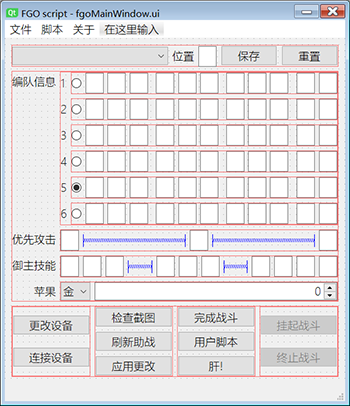
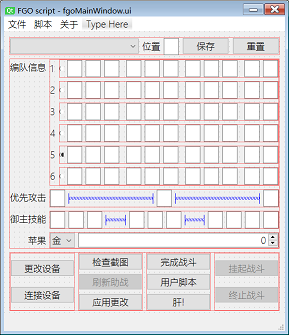
v4.5.5 憨,就硬憨!

diff --git a/fgoFunc.py b/fgoFunc.py
@@ -67,22 +67,23 @@ def battleSleep(x,part=.1):
         time.sleep(part)
     time.sleep(max(0,timer+part-time.time()))
 class Fuse:
-    def __init__(self,fv=400,show=1):
+    def __init__(self,fv=400,show=1,name=''):
         self.__value=0
         self.__max=fv
         self.show=show
+        self.name=name
     @property
     def value(self):return self.__value
     @property
     def max(self):return self.__max
     def inc(self):
         if self.__value>self.__max:
-            logger.warning('Fused')
+            logger.warning(f'Fused {self.name}')
             exit(0)
         self.__value+=1
         return self
     def reset(self):
-        if self.__value>self.show:logger.debug(f'Fuse {self.__value}')
+        if self.__value>self.show:logger.debug(f'Fuse {self.name} {self.__value}')
         self.__value=0
         return self
 fuse=Fuse()
@@ -100,12 +101,7 @@ class DirListener:
         self.lock=False
         self.ren=''
         def f():
-            while True:
-                for i in win32file.ReadDirectoryChangesW(self.hDir,0x1000,False,win32con.FILE_NOTIFY_CHANGE_FILE_NAME|win32con.FILE_NOTIFY_CHANGE_LAST_WRITE,None,None):
-                    logger.debug(f'File modified {dict([[1,"created"],[2,"deleted"],[3,"updated"],[4,"renamedFrom"],[5,"renamedTo"]]).get(i[0],"undefined")} {i}')
-                    try:self.add(i)
-                    except Exception as e:logger.exception(e)
-                    logger.debug(str(self.msg))
+            while True:self.add(win32file.ReadDirectoryChangesW(self.hDir,0x1000,False,win32con.FILE_NOTIFY_CHANGE_FILE_NAME|win32con.FILE_NOTIFY_CHANGE_LAST_WRITE,None,None))
         threading.Thread(target=f,daemon=True,name='DirListener').start()
     @acquireLock
     def add(self,x):
@@ -162,7 +158,7 @@ class DirListener:
                         if self.ren==file:return
                     break
             self.msg+=[[4,self.ren],[5,file]]
-        {1:onCreated,2:onDeleted,3:onUpdated,4:onRenamedFrom,5:onRenamedTo}.get(x[0],lambda x:None)(x[1])
+        for i in x:{1:onCreated,2:onDeleted,3:onUpdated,4:onRenamedFrom,5:onRenamedTo}.get(i[0],lambda x:None)(i[1])
     @acquireLock
     def get(self):
         ans=self.msg
@@ -180,12 +176,11 @@ class Base(Android):
         else:
             self.render=[round(i)for i in self.get_render_resolution(True)]
             self.scale,self.border=(1080/self.render[3],(round(self.render[2]-self.render[3]*16/9)>>1,0))if self.render[2]*9>self.render[3]*16else(1920/self.render[2],(0,round(self.render[3]-self.render[2]*9/16)>>1))
-        ######## bugfix for airtest.core.android.adb.ADB.getPhysicalDisplayInfo ##################################
-        ######## see https://github.com/AirtestProject/Airtest/issues/796 ########################################
+        ######## bugfix for airtest.core.android.adb.ADB.getPhysicalDisplayInfo, see https://github.com/AirtestProject/Airtest/issues/796##################################
             self.maxtouch.install_and_setup()
             self.maxtouch.size_info.update({x:int(y)for x,y in re.search(r'(?P<width>\d+)x(?P<height>\d+)\s*$',self.adb.raw_shell('wm size')).groupdict().items()})
             self._display_info=self.maxtouch.size_info.copy()
-        ######## bugfix end ######################################################################################
+        ######## bugfix end ###############################################################################################################################################
             self.key={c:[round(p[i]/self.scale+self.border[i]+self.render[i])for i in range(2)]for c,p in{
                 '\x70':(790,74),'\x71':(828,74),'\x72':(866,74),'\x73':(903,74),'\x74':(940,74),'\x75':(978,74),'\x76':(1016,74),'\x77':(1053,74),'\x78':(1091,74),'\x79':(1128,74),#VK_F1..10
                 '1':(277,640),'2':(648,640),'3':(974,640),'4':(1262,640),'5':(1651,640),'6':(646,304),'7':(976,304),'8':(1267,304),
@@ -227,6 +222,7 @@ class Base(Android):
     def snapshot(self):return cv2.resize(super().snapshot()[self.render[1]+self.border[1]:self.render[1]+self.render[3]-self.border[1],self.render[0]+self.border[0]:self.render[0]+self.render[2]-self.border[0]],(1920,1080),interpolation=cv2.INTER_CUBIC)
 base=Base()
 def doit(pos,wait):[(base.press(i),battleSleep(j*.001))for i,j in zip(pos,wait)]
+check=None
 class Check:
     def __init__(self,forwordLagency=.01,backwordLagency=0):
         battleSleep(forwordLagency)
@@ -237,8 +233,10 @@ class Check:
         battleSleep(backwordLagency)
     def compare(self,img,rect=(0,0,1920,1080),delta=.05):return delta>cv2.minMaxLoc(cv2.matchTemplate(self.im[rect[1]:rect[3],rect[0]:rect[2]],img,cv2.TM_SQDIFF_NORMED))[0]and fuse.reset()
     def select(self,img,rect=(0,0,1920,1080)):return(lambda x:x.index(min(x)))([cv2.minMaxLoc(cv2.matchTemplate(self.im[rect[1]:rect[3],rect[0]:rect[2]],i,cv2.TM_SQDIFF_NORMED))[0]for i in img])
-    def tapOnCmp(self,img,rect=(0,0,1920,1080),delta=.05):return(lambda loc:loc[0]<delta and(base.touch((rect[0]+loc[2][0]+(img.shape[1]>>1),rect[1]+loc[2][1]+(img.shape[0]>>1))),fuse.reset())[1])(cv2.minMaxLoc(cv2.matchTemplate(self.im[rect[1]:rect[3],rect[0]:rect[2]],img,cv2.TM_SQDIFF_NORMED)))
-    def save(self,name=''):cv2.imwrite(time.strftime('%Y-%m-%d_%H.%M.%S',time.localtime())+'.jpg'if name==''else name,self.im);return self
+    def tap(self,img,rect=(0,0,1920,1080),delta=.05):return(lambda loc:loc[0]<delta and(base.touch((rect[0]+loc[2][0]+(img.shape[1]>>1),rect[1]+loc[2][1]+(img.shape[0]>>1))),fuse.reset())[1])(cv2.minMaxLoc(cv2.matchTemplate(self.im[rect[1]:rect[3],rect[0]:rect[2]],img,cv2.TM_SQDIFF_NORMED)))
+    def save(self,name=''):
+        cv2.imwrite(time.strftime('%Y-%m-%d_%H.%M.%S',time.localtime())+'.jpg'if name==''else name,self.im)
+        return self
     def show(self):
         cv2.imshow('Check',cv2.resize(self.im,(0,0),None,.4,.4,cv2.INTER_NEAREST))
         cv2.waitKey()
@@ -285,7 +283,6 @@ def chooseFriend():
         oldName=name
     def onRenamedTo(name):friendImg[name]=friendImg[oldName]if lastAction==4else cv2.imread(f'image/friend/{name}.png')
     for action,name in((action,file[:-4])for action,file in friendListener.get()if file.endswith('.png')):
-        logger.debug(f'{action} {dict([[1,"created"],[2,"deleted"],[3,"updated"],[4,"renamedFrom"],[5,"renamedTo"]]).get(action,"undefined")} {name}')
         {1:onCreated,2:onDeleted,3:onUpdated,4:onRenamedFrom,5:onRenamedTo}.get(action,lambda x:logger.warning(f'Undefined action {action} on {name}'))(name)
         lastAction=action
     if oldName is not None:del friendImg[oldName]
@@ -296,7 +293,7 @@ def chooseFriend():
     while True:
         timer=time.time()
         while not Check(.2,.1).isListEnd((1860,1064)):
-            for i in(i[0] for i in friendImg.items()if check.tapOnCmp(i[1],delta=.015)):
+            for i in(i[0] for i in friendImg.items()if check.tap(i[1],delta=.015)):
                 skillInfo[friendPos],houguInfo[friendPos]=(lambda r:(lambda p:([[skillInfo[friendPos][i][j]if p[i*3+j]=='x'else int(p[i*3+j])for j in range(3)]for i in range(3)],[houguInfo[friendPos][i]if p[i]=='x'else int(p[i])for i in range(9,11)]))(r.group())if r else(skillInfo[friendPos],houguInfo[friendPos]))(re.search('[0-9x]{11}$',i))
                 return logger.info(f'Friend {i}')
             base.swipe((400,900,400,300))
@@ -312,7 +309,8 @@ def battle():
     while True:
         if Check(.1).isTurnBegin():
             turn+=1
-            stage,stageTurn,skill,newPortrait=(lambda chk:(lambda x:[x,stageTurn+1if stage==x else 1])(chk.getStage())+[chk.isSkillReady(),chk.getPortrait()])(Check(.4))
+            stage,stageTurn=(lambda x:[x,stageTurn+1if stage==x else 1])(Check(.4).getStage())
+            skill,newPortrait=check.isSkillReady(),check.getPortrait()
             if turn==1:stageTotal=check.getStageTotal()
             else:servant=(lambda m,p:[m+p.index(i)+1if i in p else servant[i]for i in range(3)])(max(servant),[i for i in range(3)if servant[i]<6and cv2.matchTemplate(newPortrait[i],portrait[i],cv2.TM_SQDIFF_NORMED)[0][0]>.03])
             if stageTurn==1and dangerPos[stage-1]:doit(('\x69\x68\x67\x66\x65\x64'[dangerPos[stage-1]-1],'\xDC'),(250,500))
@@ -329,7 +327,7 @@ def battle():
                 battleSleep(2.3)
                 while not Check(0,.2).isTurnBegin():pass
             doit(' ',(2250,))
-            doit((lambda c,h:['678'[i]for i in sorted((i for i in range(3)if h[i]),key=lambda x:-houguInfo[servant[x]][1])]+['12345'[i]for i in sorted(range(5),key=(lambda x:c[x]<<1&2|c[x]>>1&1)if any(h)else(lambda x:-1if c[x]!=-1and c.count(c[x])>=3else c[x]<<1&2|c[x]>>1&1))])(Check().getABQ(),[servant[i]<6and j and houguInfo[servant[i]][0]and stage>=min(houguInfo[servant[i]][0],stageTotal)for i,j in zip(range(3),check.isHouguReady())]),(270,270,270,270,10000))
+            doit((lambda c,h:['678'[i]for i in sorted((i for i in range(3)if h[i]),key=lambda x:-houguInfo[servant[x]][1])]+['12345'[i]for i in sorted(range(5),key=(lambda x:c[x]<<1&2|c[x]>>1&1)if any(h)else(lambda x:-1if c[x]!=-1and c.count(c[x])>=3else c[x]<<1&2|c[x]>>1&1))])(Check().getABQ(),[servant[i]<6and j and houguInfo[servant[i]][0]and stage>=min(houguInfo[servant[i]][0],stageTotal)for i,j in zip(range(3),check.isHouguReady())]),(270,270,2270,1270,10000))
         elif check.isBattleFinished():
             logger.info('Battle Finished')
             return True
@@ -352,7 +350,7 @@ def main(appleCount=0,appleKind=0,battleFunc=battle):
                 return False
     while True:
         while True:
-            if Check(.3,.3).save().isBegin():
+            if Check(.3,.3).isBegin():
                 if tobeTerminatedFlag:return
                 battleCount+=1
                 base.press('8')

diff --git a/ui/fgoMainWindow.py b/ui/fgoMainWindow.py
@@ -1046,7 +1046,7 @@ class Ui_fgoMainWindow(object):
 
     def retranslateUi(self, fgoMainWindow):
         _translate = QtCore.QCoreApplication.translate
-        fgoMainWindow.setWindowTitle(_translate("fgoMainWindow", "FGO script"))
+        fgoMainWindow.setWindowTitle(_translate("fgoMainWindow", "FGO script - hgjazhgj"))
         self.CBX_PARTY.setStatusTip(_translate("fgoMainWindow", "选取编队,若需新建或删除请直接更改config文件"))
         self.LBL_PARTY.setText(_translate("fgoMainWindow", "位置"))
         self.TXT_PARTY.setStatusTip(_translate("fgoMainWindow", "所选编队在队伍列表中的位置,从左到右1-10,0为无效"))

diff --git a/readme.md b/readme.md
@@ -1,6 +1,5 @@
-> 泳装一期卡池110发水武藏&卡米拉*2,没有部刑姬,满破五星礼装  
-> 泳装二期卡池90发项羽+皇女恩齐都双黄,大骂ylsfm氪一单后40发兔呆双黄+J总司Λ莉莉丝双紫  
-> 我开始担心起我的寿命了  
+> ~~原神真tm好玩~~  
+> 手残不配玩原神  
 
 > 人这东西还真是能力有限啊  
 > 我从短暂的人生当中学到的就是  
@@ -8,21 +7,23 @@
 > 要成为超人的存在才行啊  
 > 所以我不做人啦!JOJO!  
 # "智能战斗不间断,不靠礼装不用拐"的FGO全自动脚本
-![svg](https://img.shields.io/badge/fgo-作者是FGO国服安卓玩家-225799.svg)
-![svg](https://img.shields.io/badge/梆梆人-作者是BanGDream玩家-ff3b72.svg)
-![svg](https://img.shields.io/badge/hearthstone-作者是炉石传说玩家-daa520.svg)
-![svg](https://img.shields.io/badge/majsoul-作者是雀魂玩家-8b008b.svg)
-![svg](https://img.shields.io/badge/骑士君-作者是公主连结Re:Dive玩家-fab471.svg)
-![svg](https://img.shields.io/badge/云程序员-作者是一位云程序员-ffffff.svg)
-![svg](https://img.shields.io/badge/开位-作者是一条开位咸鱼-ffd700.svg)
-![svg](https://img.shields.io/badge/头痛-作者患有头痛宿疾Ex-50a625.svg)
-![svg](https://img.shields.io/badge/病弱-作者是一个病弱厨-ecbacb.svg)
-![svg](https://img.shields.io/badge/mikon-作者是玉藻俱乐部成员-804313.svg)
+![svg](https://img.shields.io/badge/fgo-FGO国服安卓玩家-225799.svg)
+![svg](https://img.shields.io/badge/梆梆人-BanGDream玩家-ff3b72.svg)
+![svg](https://img.shields.io/badge/hearthstone-炉石传说玩家-daa520.svg)
+![svg](https://img.shields.io/badge/majsoul-雀魂玩家-8b008b.svg)
+![svg](https://img.shields.io/badge/骑士君-公主连结Re:Dive玩家-fab471.svg)
+![svg](https://img.shields.io/badge/云程序员-云程序员-ffffff.svg)
+![svg](https://img.shields.io/badge/开位-一条开位咸鱼-ffd700.svg)
+![svg](https://img.shields.io/badge/头痛-患有头痛宿疾Ex-50a625.svg)
+![svg](https://img.shields.io/badge/病弱-病弱厨-ecbacb.svg)
+![svg](https://img.shields.io/badge/mikon-玉藻俱乐部成员-804313.svg)
 ![svg](https://img.shields.io/badge/萝莉控-小学生真是太棒了-b0e0e6.svg)
-![svg](https://img.shields.io/badge/n4-作者的日语具有N4或同等水平-00ff00.svg)
+![svg](https://img.shields.io/badge/n4-日语N4或同等水平-00ff00.svg)
 ![svg](https://img.shields.io/badge/咕咕咕-一天不咕浑身难受-cccccc.svg)
 ![svg](https://img.shields.io/badge/网络乞丐-求求你了给个star☆吧-ff9900.svg)  
-当前版本[v4.5.4](#版本记录-Version-Logs)  
+本项目在2020年9月17日达到100star  
+![100star](./doc/100StarCelebrate.png)  
+当前版本[v4.5.5](#版本记录-Version-Logs)  
 仅适用于命运-冠位指定安卓简体中文版本 [快速查错引导](#快速查错引导-When-Error-Occurred)  
 GitHub项目地址:[https://github.com/hgjazhgj/FGO-py/](https://github.com/hgjazhgj/FGO-py/)  
 ~~长按star体验一键三连的快感~~  
@@ -36,14 +37,13 @@ GitHub项目地址:[https://github.com/hgjazhgj/FGO-py/](https://github.com/hgja
 ***
 # 使用说明 Instruction
 双击打开用就完了,本脚本几乎没有限制  
-mumu模拟器用户请换模拟器~~或者自己把v4.0.0版本里面的fgoFunc.Base类扒出来替换掉现在的那个~~  
+没有可执行二进制文件,因为我觉得没有必要  
 速览脚本功能,运行`fgoGui.py`,大部分功能说明也在ui里,只有未在ui中记载的部分被记录在本文档后续的说明内容中  
 这个脚本会比较智能地帮你放技能(默认不用技能),放宝具(默认充能满就直接放宝具),选卡(优先三色chain,否则优先红卡).  
 合理设定后实战7-12回合能够刷完无限池终本  
 使用了这些外部库:`configParser` `airtest` `pywin32` `PyQt5`  
-以上库均可`pip install`,但是安装`airtest`库需要一些特殊的技巧,所以没有requirements.txt  
-其他被这些库依赖的外部库未单独列出  
-ui大概长这样:  
+以上库均可`pip install`,其他被这些库依赖的外部库未单独列出,但是安装`airtest`库需要一些特殊的技巧,所以没有requirements.txt  
+ui大概长这样(设计视图仅供参考):  
 ![ui](./doc/ui.png)  
 本脚本的代码部分仅有`fgoFunc.py`是fgo算法相关的  
 当然`fgoGui.py`也是脚本的一部分,会自动加载一些配置,在您知晓本脚本的工作原理前不建议单独使用`fgoFunc.py`进行操作  
@@ -59,6 +59,7 @@ ui大概长这样:
 助战截图的文件名若以包含技能和宝具信息的11个数字或占位符x**结尾**,则会将这些信息**覆盖**skillInfo中的设置  
 你在image/friend目录下的所有更改会在下一次选取助战时自动应用  
 ## 快速查错引导 When Error Occurred
+mumu模拟器用户请换模拟器~~或者自己把v4.0.0版本里面的fgoFunc.Base类扒出来替换掉现在的那个~~  
 + 游戏是否已经运行  
 + 路径中是否有空格  
 + 游戏画面旋转方向是否未变动  
@@ -95,31 +96,27 @@ ui大概长这样:
 |\<Space\> |选卡/下一步/菜单                        |
 |NUM4-9    |选取敌人,NUM7返回/关闭                  |  
 ## 如何联系我 Contact Me
-[提问的智慧 How To Ask Questions The Smart Way](http://www.catb.org/~esr/faqs/smart-questions.html)([zh_CN](https://github.com/ryanhanwu/How-To-Ask-Questions-The-Smart-Way/blob/master/README-zh_CN.md))  
-我很暴躁,这是我的联系方式  
-qq 979449732(加好友请说明来意,**并附上您在GitHub中的账户名**  
-email huguangjing0411@geektip.cc(相信您在小学就学过电子邮件怎么写了  
+![Alipay](./doc/行行好吧给颗石头吧.png)![Wechat](./doc/吧头石颗给吧好行行.png)  
 觉得有帮助请为我star,谢谢  
+[提问的智慧 How To Ask Questions The Smart Way](http://www.catb.org/~esr/faqs/smart-questions.html)([zh_CN](https://github.com/ryanhanwu/How-To-Ask-Questions-The-Smart-Way/blob/master/README-zh_CN.md))  
+去看看过往的issue就能知道我很暴躁,这是我的联系方式,在qq上我会更暴躁  
+qq 979449732(个人账号,加好友请注明是来问*这个脚本*的问题的  
+email huguangjing0411@geektip.cc(相信您在小学就学过电子邮件怎么写了  
+关于本脚本算法及实现之外的问题(包括但不限于第三方库/编程语言/特定设备调试)不在支持范围内  
+现在这个脚本居然已经可以从各大搜索引擎上找到,这就导致有很多hwlloworld都不会的小白来找我  
 我乐意回答一些技术问题,但没有义务提供详细的教学.为使耳根清净的最好方法就是收费,故制定以下政策  
-关于本脚本算法及实现之外的问题(包括但不限于adb工具/python语言/win32相关/特定设备调试)不在支持范围内  
-具体的收费渠道还在思考中,不过显然直到您的问题解决为止我都很难定一个价格  
-建议您仔细阅读readme,尝试使用搜索引擎来解决您的问题,以免给您带来不必要的损失.谢谢  
+**没有标明免费的东西都不是免费的**,凡是从QQ或者email联系我的,先收50定金,最终收费不超过一单  
+什么?你想反馈脚本本身的问题?那为什么不发issue?  
+建议您仔细阅读readme,尝试使用搜索引擎来解决您的问题,以免给您带来不必要的损失  
 我只接受对**最新commit**的bug反馈,请检查是否有未拉取的更改  
 *不,这不是bug,是feature*  
-**没有标明免费的东西都不是免费的**  
-如果你没能有*提问的智慧*而向我提问,那么你很可能被挂在下面的*光荣榜*上  
-[跳过图片部分](#版本记录-Version-Logs)  
-![hanhan1](./doc/hanhan_2020-02-28.png)  
-这位还算有点礼貌,所以我给他打了码  
-![hanhan2](./doc/hanhan_2020-04-03.png)  
-这位是真的憨  
-这是本readme中的头两张图片,合影留念  
-![hanhan3](./doc/hanhan_2020-04-28.png)  
-您连*加好友请说明来意,并附上您在GitHub中的账户名*的意思都理解不了,还怎么学会一门编程语言呢  
-![hanhan4](./doc/hanhan_2020-06-03.png)  
-您这*来意*是*打不开*也挺迷人的,我tm拒绝之后才发现*可能*是来问脚本问题的,本来搞不好还能逗他玩玩  
+如果你没能有*提问的智慧*而向我提问,那么你很可能被挂在[奇人共赏](./doc/奇人共赏.md)上  
 另外,如果您非得来骚扰我,请至少开一个小号,以保护您自己的隐私信息  
 # 版本记录 Version Logs
+## 2020/09/16 v4.5.5
+修订readme  
+我计划对本项目的代码风格进行一系列微调,现在是第一步  
+另有微调,谁tm想得到我写个脚本都得玄学调参  
 ## 2020/09/09 v4.5.4
 修订readme  
 bug修复:延时调整,在未首通时能够正确进本  

diff --git a/doc/奇人共赏.md b/doc/奇人共赏.md
@@ -1,0 +1,15 @@
+这是专门用于记录各种神人的文档  
+![hanhan1](./hanhan_2020-02-28.png)  
+这位还算有点礼貌,所以我给他打了码  
+![hanhan2](./hanhan_2020-04-03.png)  
+这位是真的憨  
+这是本readme中的头两张图片,合影留念  
+![hanhan3](./hanhan_2020-04-28.png)  
+您连*加好友请说明来意,并附上您在GitHub中的账户名*的意思都理解不了,还怎么学会一门编程语言呢  
+![hanhan4](./hanhan_2020-06-03.png)  
+您这*来意*是*打不开*也挺迷人的,我tm拒绝之后才发现*可能*是来问脚本问题的,本来搞不好还能逗他玩玩  
+![hanhan5](./hanhan_2020-09-15.png)![hanhan5](./hanhan_2020-09-15_Attachment.png)  
+我们来细品这个憨憨,我啥都不会->电话骚扰->在吗->要钱没钱->我是学生你能送我吗  
+而后我一查,join GitHub 16 hours ago....对不起Microsoft,我污染了你的用户数据  
+我气死了,愿天堂没有这个人  
+我说这些憨批啊,年纪一个个都比我大,还听不懂人话干不出人事,到头来还没我活得像个人  
